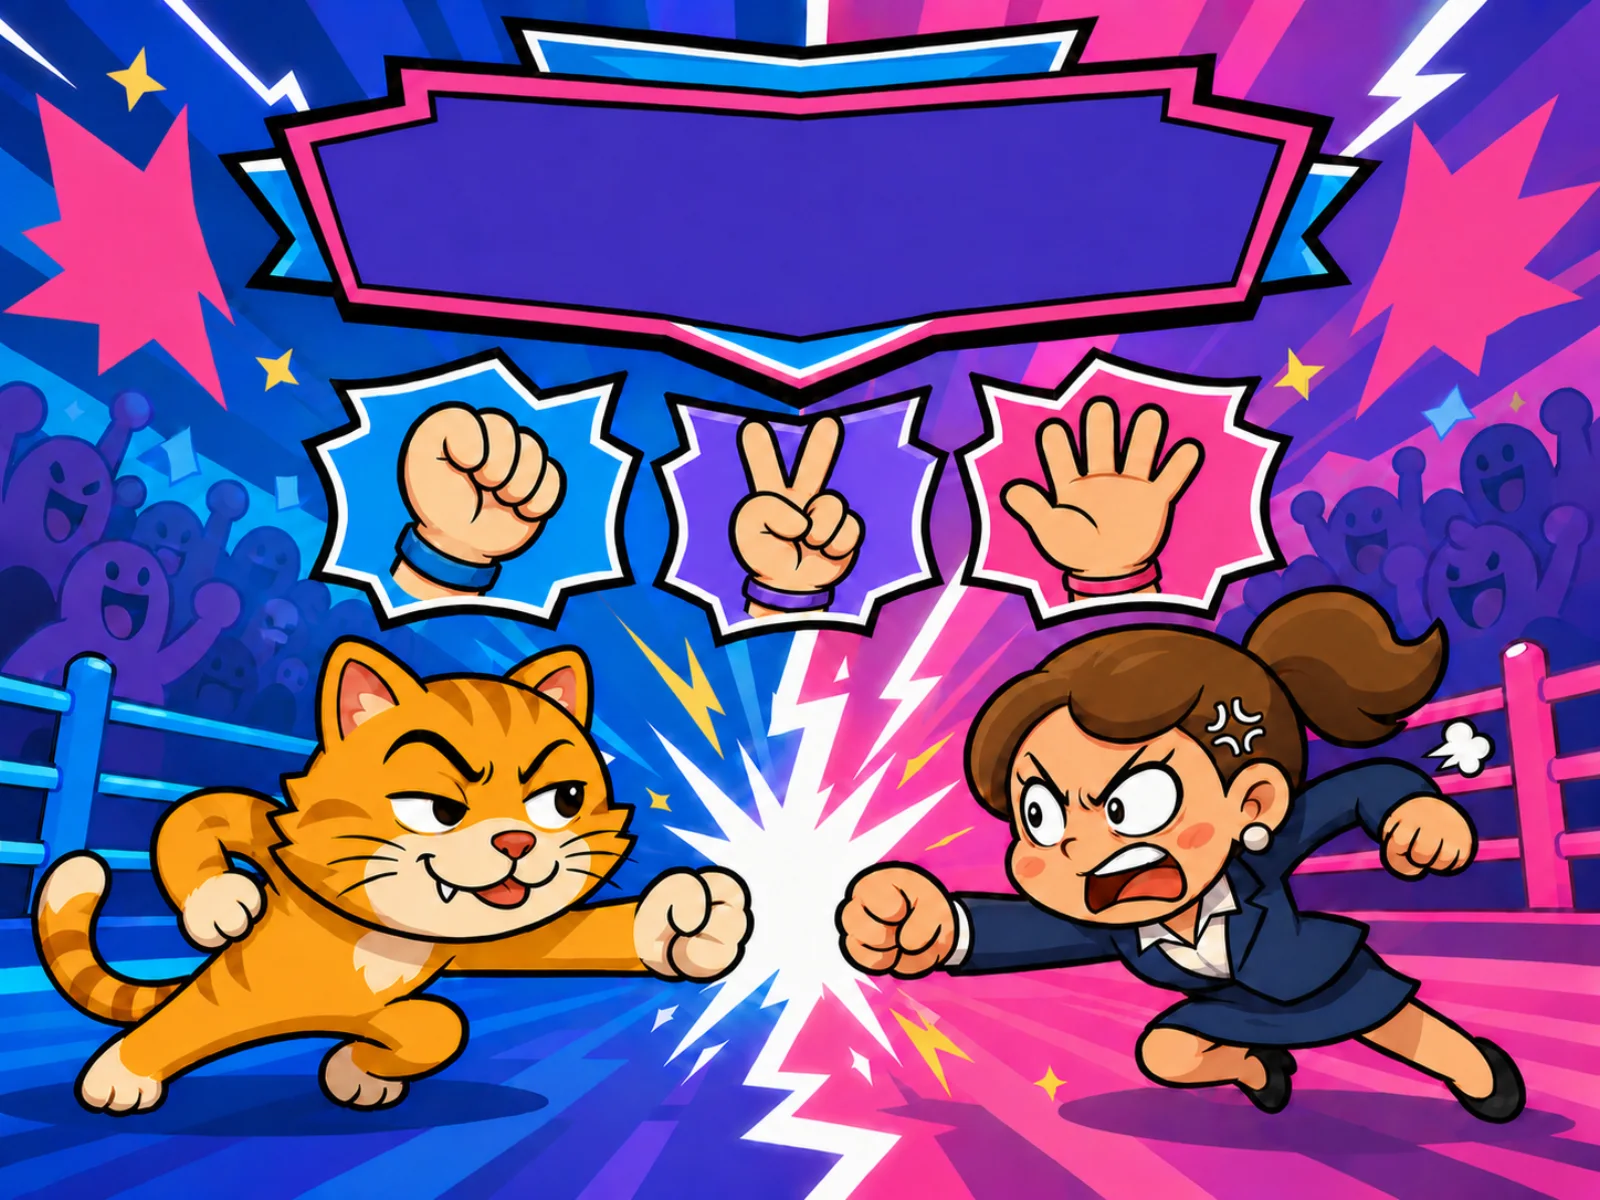
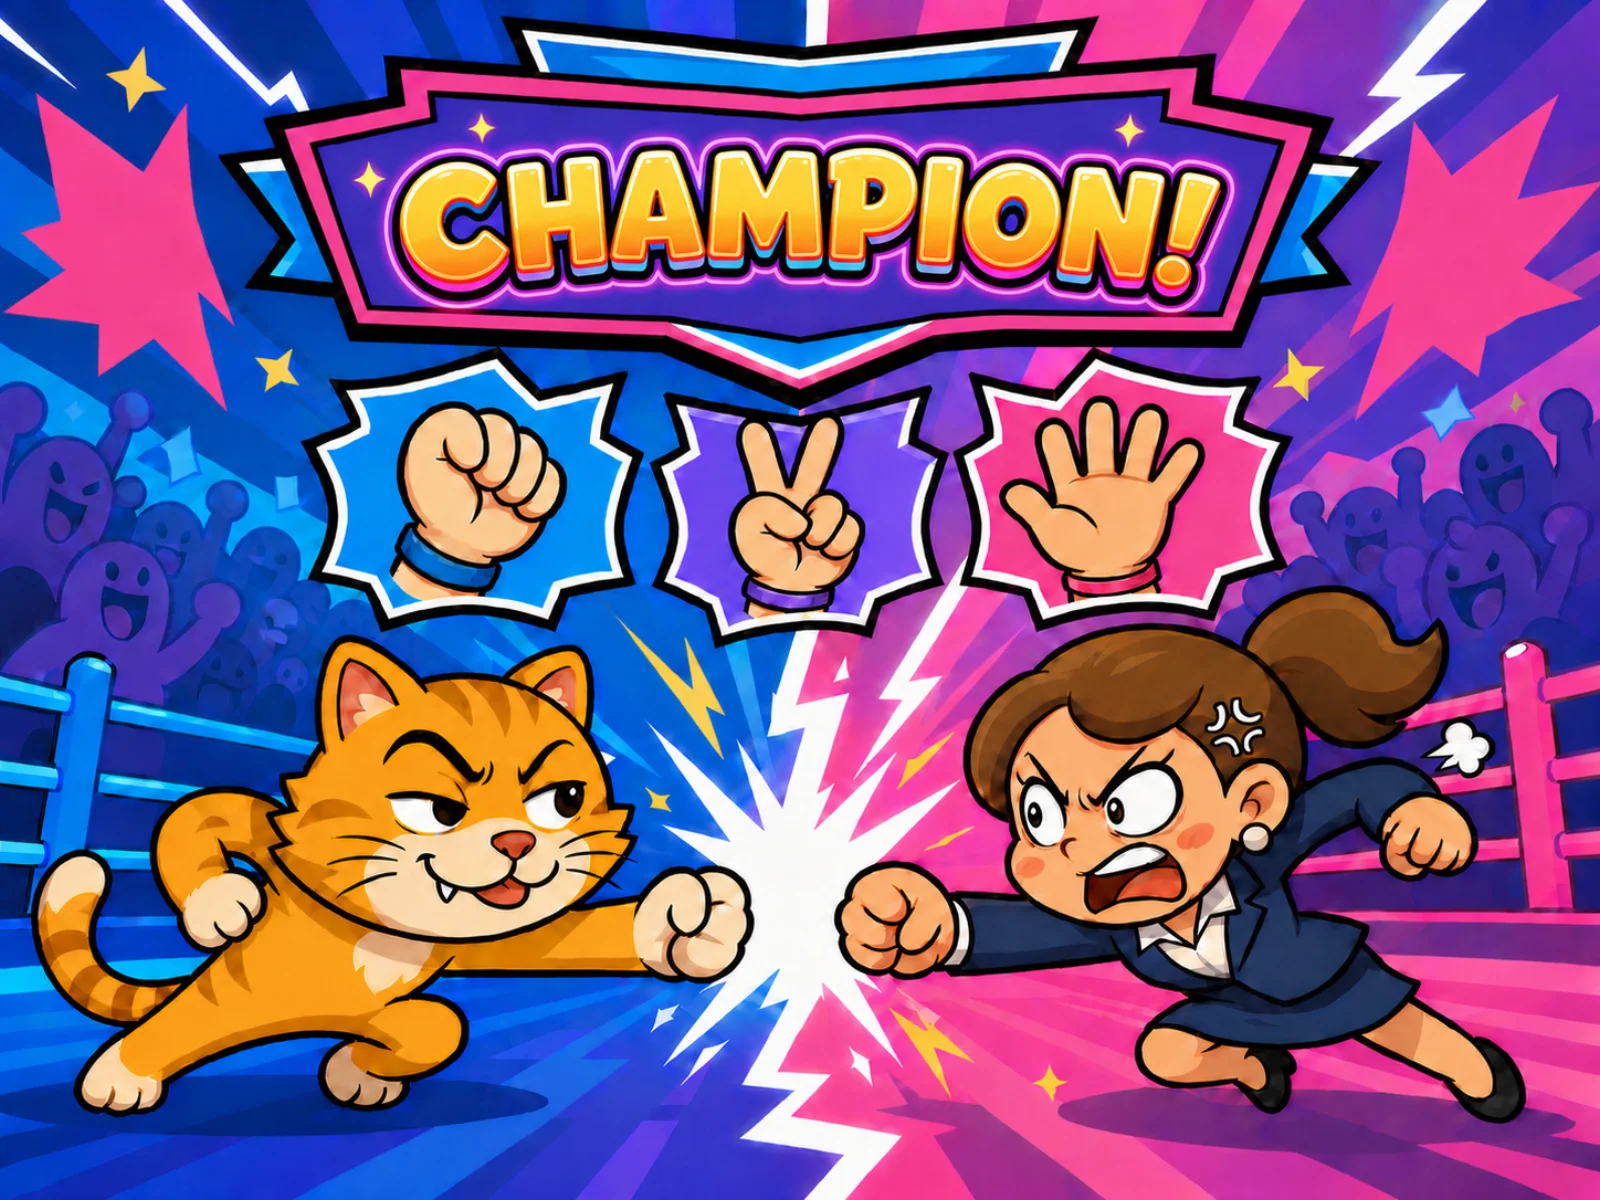
art: เปลี่ยนธีมหลักเป็นภาพใหม่ (มีป้าย CHAMPION! บนแบนเนอร์)
- theme-samples/OFFICIAL-THEME.png = ภาพใหม่ที่เจ้านายเลือก (ชื่อไฟล์เดิม)
- แปลงเป็นพื้นหลังเกม bg-arena.webp (1448x1086 → กว้าง 1600 · 220KB)
- bump asset V=11 ล้าง cache iPad

verify: เทส 126/126 · ทุกจอ overflow 0 · ตรวจสกรีนช็อตหน้าแรกด้วยตา

Claude-Session: https://claude.ai/code/session_01Y1VNKXszF6y6EKaZyufX7R

diff --git a/app/src/data/assets.ts b/app/src/data/assets.ts
@@ -1,7 +1,7 @@
 // ที่อยู่ของไฟล์ภาพทั้งหมด — รวมไว้จุดเดียว เวลาได้ asset ใหม่จาก Codex แก้ที่นี่ที่เดียว
 // `?v=N` ใช้ล้าง cache ตอนเปลี่ยนรูป (บทเรียนเกมที่ 1: iPad ชอบจำรูปเก่า)
 const BASE = import.meta.env.BASE_URL;
-const V = "10";
+const V = "11";
 
 function asset(path: string): string {
   return `${BASE}assets/${path}?v=${V}`;